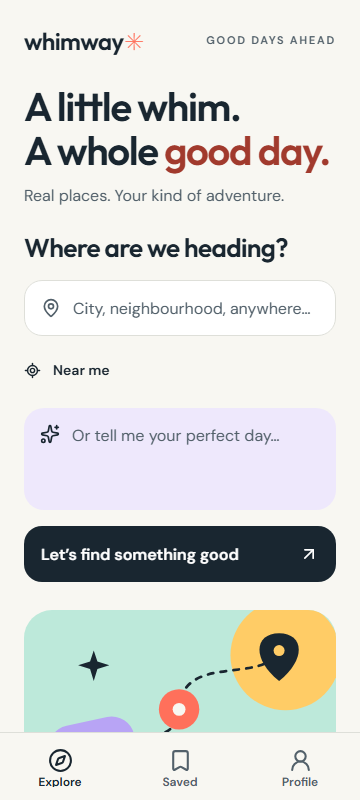
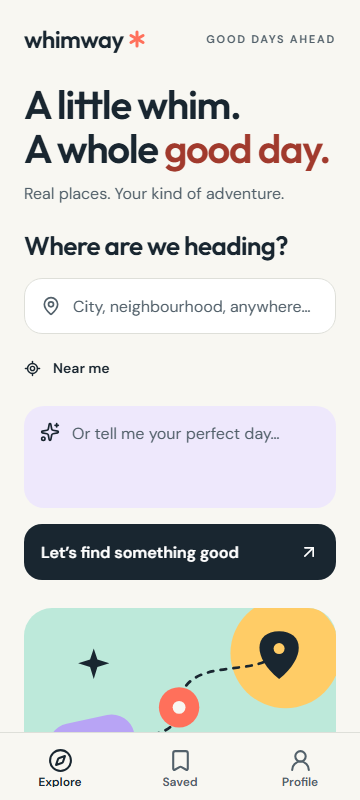
Record native launch evidence and validate database RLS in CI

diff --git a/docs/mobile-requirements.md b/docs/mobile-requirements.md
@@ -4,41 +4,41 @@ This maps the pasted original specification to repository code and observed evid
 
 ## Phase coverage
 
-| Original phase                            | Implementation/evidence                                                                                                                                                                                | Remaining work or gate                                                                                                                                             |
-| ----------------------------------------- | ------------------------------------------------------------------------------------------------------------------------------------------------------------------------------------------------------ | ------------------------------------------------------------------------------------------------------------------------------------------------------------------ |
-| 0: existing project and Git safety        | Hearthlane/Whimway baseline `cc9a129`; dedicated `codex/native-mobile-experience`; preserved Next backend/core                                                                                         | Repository milestones and draft PR tracked by the main task                                                                                                        |
-| 1: complete audit                         | `mobile-audit.md`, baseline portrait captures, 80 baseline tests, existing browser interaction suite                                                                                                   | Native/live behavior cannot be established from original web captures                                                                                              |
-| 2: native architecture/store metadata     | Expo 57 / RN 0.86.3, Router, native maps/location/reminders/haptics, independent lockfile, shared server contracts; icon/splash/deep links/EAS profiles/privacy setup                                  | Initial Android/iOS native compilation passed; final-source runtime flows pending; IDs, credentials and signed distribution remain separate gates                  |
-| 3–4: adaptive planning                    | `app/(tabs)/index.tsx`, `app/planner.tsx`, `src/core/planning.ts`: destination or prompt, known-answer suppression, Skip/Back, early generate, opt-in preferences                                      | Live OpenAI/Places need server credentials; hardware Back and native date/map/keyboard dialogs require OS checks                                                   |
-| 5: motion/design system                   | Shared Outfit/DM Sans/palette/components, Reanimated selection/reveal/question transitions/progress, haptics and reduced motion                                                                        | Real sheet gestures/focus/escape and planner motion are implemented; native frame-rate/battery and OS behavior remain unmeasured                                   |
-| 6: honest generation                      | `app/generating.tsx`, bounded/abortable `services/http.ts`: actual pending state, slow message, retry/cancel; no fabricated phases or percentages                                                      | Cancellation, timeout/offline and saved-lock failure-preservation browser checks passed; native OS checks remain separate                                          |
-| 7: result/edit/remix                      | `app/plan/[id].tsx`, retained planner/APIs: venue IDs, attributed photos/fallbacks, schedule/cost, lock/replace/add/remove/reorder/duration/budget/mode/remix/undo                                     | Personalized suitability/provider regressions and fixture edits pass; live photo/venue/route checks need Google                                                    |
-| 8: Day/map guidance                       | `app/day/[id].tsx`, `RouteMap.native.tsx`, location/progress/geometry services: current/next stop, numbered markers/area/routes, recenter/fit, independent mode, completion/skip, foreground lifecycle | Google SDK keys/device build for actual maps/location; official full turn-by-turn incompatible with current RN, explicitly unavailable                             |
-| 9: reminders                              | Post-plan opt-in, configurable lead/upcoming stops, destination-timezone instants, completed/skipped suppression and edit/delete cancellation                                                          | Real iOS/Android grant/deny/delivery/process/tap behavior must be exercised                                                                                        |
-| 10: real recommendation engine            | Retained Places/Routes/OpenAI adapters, structured IDs, geometry/boundary/hours/budget/duration/variety checks; provider/planner tests                                                                 | Companion/energy/cuisine/atmosphere suitability, Free hard budget and global currency/route guards tested; live key/billing validation pending                     |
-| 11: complete screen structure             | Explore, adaptive Planning, Generation, Plan, Day, Saved plans/favorites and Profile; only Explore/Saved/Profile are permanent tabs                                                                    | Browser/source checks cover layouts; native gestures and OS navigation remain distinct                                                                             |
-| 12: guest/account rules                   | Guest plans/preferences, opt-in reuse, SecureStore PKCE bearer sessions, explicit cloud preference conflict handling                                                                                   | Supabase migration/redirect/SMTP and two-account RLS/deletion/share tests need hosted credentials                                                                  |
-| 13–15: quality, journeys and second audit | Five portrait layouts, 200% browser text sample, actual RN Web fixture workflows, expanded Axe and reviewed captures                                                                                   | Re-audit source gaps repaired; 17 browser cases and expanded modal Axe pass; native fontScale/VoiceOver/TalkBack/permissions/performance still require OS evidence |
-| 16: release preparation                   | App configuration, EAS profiles, original assets, SDK/version checks, `release:check`, exact commands and provider/privacy/signing guidance                                                            | Privacy/terms, IDs and signing remain required; local diagnostics and initial native artifacts implemented; final native workflows pending                         |
-| 17: persistence through completion        | Durable checklist, automated tests, CI, major commits and explicit external blockers                                                                                                                   | Update this record from actual native build results; do not mark pending compile/device work complete                                                              |
+| Original phase                            | Implementation/evidence                                                                                                                                                                                | Remaining work or gate                                                                                                                                                              |
+| ----------------------------------------- | ------------------------------------------------------------------------------------------------------------------------------------------------------------------------------------------------------ | ----------------------------------------------------------------------------------------------------------------------------------------------------------------------------------- |
+| 0: existing project and Git safety        | Hearthlane/Whimway baseline `cc9a129`; dedicated `codex/native-mobile-experience`; preserved Next backend/core                                                                                         | Repository milestones and draft PR tracked by the main task                                                                                                                         |
+| 1: complete audit                         | `mobile-audit.md`, baseline portrait captures, 80 baseline tests, existing browser interaction suite                                                                                                   | Native/live behavior cannot be established from original web captures                                                                                                               |
+| 2: native architecture/store metadata     | Expo 57 / RN 0.86.3, Router, native maps/location/reminders/haptics, independent lockfile, shared server contracts; icon/splash/deep links/EAS profiles/privacy setup                                  | Initial Android/iOS compilation and initial iOS Explore install/launch verified; final-source runtime flows pending; IDs, credentials and signed distribution remain separate gates |
+| 3–4: adaptive planning                    | `app/(tabs)/index.tsx`, `app/planner.tsx`, `src/core/planning.ts`: destination or prompt, known-answer suppression, Skip/Back, early generate, opt-in preferences                                      | Live OpenAI/Places need server credentials; hardware Back and native date/map/keyboard dialogs require OS checks                                                                    |
+| 5: motion/design system                   | Shared Outfit/DM Sans/palette/components, Reanimated selection/reveal/question transitions/progress, haptics and reduced motion                                                                        | Real sheet gestures/focus/escape and planner motion are implemented; native frame-rate/battery and OS behavior remain unmeasured                                                    |
+| 6: honest generation                      | `app/generating.tsx`, bounded/abortable `services/http.ts`: actual pending state, slow message, retry/cancel; no fabricated phases or percentages                                                      | Cancellation, timeout/offline and saved-lock failure-preservation browser checks passed; native OS checks remain separate                                                           |
+| 7: result/edit/remix                      | `app/plan/[id].tsx`, retained planner/APIs: venue IDs, attributed photos/fallbacks, schedule/cost, lock/replace/add/remove/reorder/duration/budget/mode/remix/undo                                     | Personalized suitability/provider regressions and fixture edits pass; live photo/venue/route checks need Google                                                                     |
+| 8: Day/map guidance                       | `app/day/[id].tsx`, `RouteMap.native.tsx`, location/progress/geometry services: current/next stop, numbered markers/area/routes, recenter/fit, independent mode, completion/skip, foreground lifecycle | Google SDK keys/device build for actual maps/location; official full turn-by-turn incompatible with current RN, explicitly unavailable                                              |
+| 9: reminders                              | Post-plan opt-in, configurable lead/upcoming stops, destination-timezone instants, completed/skipped suppression and edit/delete cancellation                                                          | Real iOS/Android grant/deny/delivery/process/tap behavior must be exercised                                                                                                         |
+| 10: real recommendation engine            | Retained Places/Routes/OpenAI adapters, structured IDs, geometry/boundary/hours/budget/duration/variety checks; provider/planner tests                                                                 | Companion/energy/cuisine/atmosphere suitability, Free hard budget and global currency/route guards tested; live key/billing validation pending                                      |
+| 11: complete screen structure             | Explore, adaptive Planning, Generation, Plan, Day, Saved plans/favorites and Profile; only Explore/Saved/Profile are permanent tabs                                                                    | Browser/source checks cover layouts; native gestures and OS navigation remain distinct                                                                                              |
+| 12: guest/account rules                   | Guest plans/preferences, opt-in reuse, SecureStore PKCE bearer sessions, explicit cloud preference conflict handling                                                                                   | Supabase migration/redirect/SMTP and two-account RLS/deletion/share tests need hosted credentials                                                                                   |
+| 13–15: quality, journeys and second audit | Five portrait layouts, 200% browser text sample, actual RN Web fixture workflows, expanded Axe and reviewed captures                                                                                   | Re-audit source gaps repaired; 17 browser cases and expanded modal Axe pass; native fontScale/VoiceOver/TalkBack/permissions/performance still require OS evidence                  |
+| 16: release preparation                   | App configuration, EAS profiles, original assets, SDK/version checks, `release:check`, exact commands and provider/privacy/signing guidance                                                            | Privacy/terms, IDs and signing remain required; local diagnostics and initial native artifacts implemented; final native workflows pending                                          |
+| 17: persistence through completion        | Durable checklist, automated tests, CI, major commits and explicit external blockers                                                                                                                   | Update this record from actual native build results; do not mark pending compile/device work complete                                                                               |
 
 ## Definition-of-done mapping
 
-| Original item                                  | What proves it                                                                                                           | Current limit                                                                                                               |
-| ---------------------------------------------- | ------------------------------------------------------------------------------------------------------------------------ | --------------------------------------------------------------------------------------------------------------------------- |
-| 1: existing repository upgraded                | Audit, commits, retained API/core plus `apps/mobile`                                                                     | No unrelated replacement repository                                                                                         |
-| 2–3: cohesive identity/portrait-first          | Original assets/design tokens and five-size screenshot audit                                                             | Browser layout evidence; physical native review still required                                                              |
-| 4: anywhere supported by Places                | Actual autocomplete/geocoding/point adapters and native location/map selection                                           | Fixture examples do not prove global live-provider coverage                                                                 |
-| 5–7: short adaptive/intelligent prefill        | Guided and complete-intent browser tests plus structured parser/core tests                                               | Successful AI browser case uses explicitly mocked validated intent; live AI pending                                         |
-| 8: polished honest generation                  | Pending/error/cancel UI and abort/timeout tests                                                                          | No invented progress phases                                                                                                 |
-| 9: personalized real places                    | Provider-ID validation, deterministic planner and suitability rules                                                      | Synthetic test venues are labeled; live results need billed keys                                                            |
-| 10–12: cards/map/edit/recompute                | Browser edit workflows, route/schedule/cost response assertions and native map source                                    | Real native map rendering/attribution needs SDK keys and device testing                                                     |
-| 13–14: outing guidance/conditional navigation  | Foreground next-stop route preview, progress/mode services and UI                                                        | No spoken maneuvers or automatic arrival; full Navigation beta needs RN >=0.87                                              |
-| 15: opt-in day reminders                       | Native notification service plus timezone/cancellation tests and honest browser fallback                                 | OS dialogs/delivery not implied by service tests                                                                            |
-| 16: responsive animated tactile product        | Native animation/haptic/gesture code and reduced-motion browser checks                                                   | Native frame-rate, battery, keyboard and assistive checks remain measured device work                                       |
-| 17–18: saving/sharing/account/no fake controls | Local persistence and favorite hydration workflows, text Share, authenticated cloud APIs and explicit unavailable states | Live Supabase and native share sheets require real integration checks                                                       |
-| 19: tests/available native checks              | `mobile-checklist.md` records exact commands/counts and native build run evidence                                        | Initial Android/iOS compile verified; final-source emulator/simulator flows pending; actual runner evidence controls status |
-| 20–21: blockers/maintainable distribution prep | `mobile-release.md`, EAS/config/scripts, CI and this traceability                                                        | Signed store-ready builds, legal approval and submission remain external authorized steps                                   |
+| Original item                                  | What proves it                                                                                                           | Current limit                                                                                                                                                  |
+| ---------------------------------------------- | ------------------------------------------------------------------------------------------------------------------------ | -------------------------------------------------------------------------------------------------------------------------------------------------------------- |
+| 1: existing repository upgraded                | Audit, commits, retained API/core plus `apps/mobile`                                                                     | No unrelated replacement repository                                                                                                                            |
+| 2–3: cohesive identity/portrait-first          | Original assets/design tokens and five-size screenshot audit                                                             | Browser layout evidence; physical native review still required                                                                                                 |
+| 4: anywhere supported by Places                | Actual autocomplete/geocoding/point adapters and native location/map selection                                           | Fixture examples do not prove global live-provider coverage                                                                                                    |
+| 5–7: short adaptive/intelligent prefill        | Guided and complete-intent browser tests plus structured parser/core tests                                               | Successful AI browser case uses explicitly mocked validated intent; live AI pending                                                                            |
+| 8: polished honest generation                  | Pending/error/cancel UI and abort/timeout tests                                                                          | No invented progress phases                                                                                                                                    |
+| 9: personalized real places                    | Provider-ID validation, deterministic planner and suitability rules                                                      | Synthetic test venues are labeled; live results need billed keys                                                                                               |
+| 10–12: cards/map/edit/recompute                | Browser edit workflows, route/schedule/cost response assertions and native map source                                    | Real native map rendering/attribution needs SDK keys and device testing                                                                                        |
+| 13–14: outing guidance/conditional navigation  | Foreground next-stop route preview, progress/mode services and UI                                                        | No spoken maneuvers or automatic arrival; full Navigation beta needs RN >=0.87                                                                                 |
+| 15: opt-in day reminders                       | Native notification service plus timezone/cancellation tests and honest browser fallback                                 | OS dialogs/delivery not implied by service tests                                                                                                               |
+| 16: responsive animated tactile product        | Native animation/haptic/gesture code and reduced-motion browser checks                                                   | Native frame-rate, battery, keyboard and assistive checks remain measured device work                                                                          |
+| 17–18: saving/sharing/account/no fake controls | Local persistence and favorite hydration workflows, text Share, authenticated cloud APIs and explicit unavailable states | Live Supabase and native share sheets require real integration checks                                                                                          |
+| 19: tests/available native checks              | `mobile-checklist.md` records exact commands/counts and native build run evidence                                        | Initial Android/iOS compile plus old-source iOS Explore launch verified; final-source emulator/simulator flows pending; actual runner evidence controls status |
+| 20–21: blockers/maintainable distribution prep | `mobile-release.md`, EAS/config/scripts, CI and this traceability                                                        | Signed store-ready builds, legal approval and submission remain external authorized steps                                                                      |
 
 ## Verification still to distinguish
 
@@ -50,4 +50,4 @@ This maps the pasted original specification to repository code and observed evid
 | Live providers/accounts       | Billed/restricted Google/OpenAI staging calls, native map/photo attribution, Supabase ownership/RLS/share/deletion and email links |
 | Public distribution           | Confirmed identifiers/signing, approved privacy/terms/disclosures and store submission authorization                               |
 
-The main validation record remains [mobile-checklist.md](mobile-checklist.md). Initial native compilation is recorded by exact commit/run; final-source native runtime results are still pending. This record does not equate a browser pass or authored flow with an OS pass.
+The main validation record remains [mobile-checklist.md](mobile-checklist.md). Initial native compilation and the actual old-source iOS Explore install/launch are recorded by exact commit/run/artifact; final-source native runtime results are still pending. This record does not equate a browser pass or authored flow with an OS pass.

diff --git a/docs/mobile-checklist.md b/docs/mobile-checklist.md
@@ -25,38 +25,40 @@ Updated 13 October 2026. Work is on `codex/native-mobile-experience` in the orig
 | Motion/accessibility              | Implemented; native assistive checks open                  | Reanimated/Gesture Handler/haptics, reduced motion, labels/state, text scaling and at least 44/48-point controls; Axe scope below is browser-only                                 |
 | Visual audit                      | Browser review verified; device review open                | Baseline and actual RN Web preview captures; portrait widths 375/360/390/412/430 and 200% browser text sample; no unrelated venue photos                                          |
 | Android binary/device test        | Hosted initial compilation verified; final runtime pending | Real internal-test APK compiled on GitHub; final source and emulator flows remain separate checks. Store signing is not supplied                                                  |
-| iOS binary/device test            | Hosted initial compilation verified; runtime pending       | Release simulator app compiled on GitHub macOS/Xcode; install/launch and native journeys await runner evidence. Device/store signing is not supplied                              |
+| iOS binary/device test            | Hosted initial compilation verified; runtime pending       | Initial Release simulator app compiled, installed and launched on GitHub macOS/Xcode; final-source native journeys pending; device/store signing is not supplied                  |
 | Production/build validation       | Source/build-tool checks passed                            | Next production build, mobile typecheck, dependency alignment, Android prebuild and all-platform JavaScript export; native binary gate remains open                               |
 | Release documentation/CI          | Implemented                                                | `docs/mobile-release.md`, EAS profiles and `.github/workflows/mobile.yml`                                                                                                         |
 
 ## Evidence from this coding session
 
-| Check                                             | Result                                                           | Scope                                                                                                                                                                               |
-| ------------------------------------------------- | ---------------------------------------------------------------- | ----------------------------------------------------------------------------------------------------------------------------------------------------------------------------------- |
-| Baseline `npm test`                               | Passed, 80 tests / 5 files                                       | Existing deterministic planner/provider/API/usage logic                                                                                                                             |
-| Baseline Playwright                               | 13 / 14 initially; isolated remaining accessibility check passed | Axe initially sampled an opacity transition; settled reduced-motion check passed across six routes and phone/desktop itineraries                                                    |
-| Current `npm test`                                | Passed, 189 tests                                                | Planner/provider/API/security, personalization/currency, native service/recovery/config behavior and real decoder dependency resolution                                             |
-| Final retained-web Playwright                     | Passed, 16 / 16                                                  | Existing browser flows, settled Axe, sparse results and location-selection/date race regressions                                                                                    |
-| Final root/mobile typechecks, lint and Next build | Passed                                                           | Source checks and production backend bundle; not OS-native compilation                                                                                                              |
-| Native-screen RN Web journeys                     | Passed, 17 / 17 in 1.2 minutes                                   | Fixture APIs, five widths/200% text, motion, cancellation/offline recovery, prefs/exclusions, diagnostics, sheets, Free and locked-stop recovery; explicit intent/error mocks below |
-| `/api/status` fixture server                      | HTTP 200                                                         | `places/maps/ai/cloud=false`, `demo=true`; missing services explicit                                                                                                                |
-| Asset regeneration + metadata                     | Passed                                                           | Five PNGs; store icon 1024 × 1024 without alpha; original SVG sources and icon visual inspection                                                                                    |
-| Original web portrait capture                     | Passed                                                           | Six 390 × 844 Chromium captures, no horizontal overflow/uncaught exceptions; `docs/screenshots/baseline`                                                                            |
-| Decoder adapter regression                        | Passed, 3 tests                                                  | Actual query-string resolves provenance-pinned CommonJS decoder; Unicode, plus/space, malformed percent and long malformed UTF-8                                                    |
-| Expo Doctor                                       | Passed, 21 / 21                                                  | SDK dependency alignment and project configuration                                                                                                                                  |
-| Final Expo production all-platform export         | Passed with current frozen source                                | Android 8.1 MB / iOS 7.9 MB Hermes, web 5.7 MB, 58 assets; JavaScript compilation, not native installation/performance                                                              |
-| Android prebuild                                  | Passed                                                           | Native project/config generated; `expo run:android` cannot proceed without Android SDK/adb                                                                                          |
-| Dependency audit                                  | Root production 0; full root 5 high / mobile 20 high, 0 moderate | Open braces/Forge tooling advisories recorded in `docs/dependency-advisories.md`                                                                                                    |
-| Hosted initial native compilation                 | Android and iOS simulator compilation passed                     | Run/commit/artifact scope below; final source changes and runtime journeys are still pending                                                                                        |
-| Native device execution                           | Pending hosted emulator/simulator flows                          | Maestro smoke/reminder flows are authored; only actual successful runner execution establishes OS behavior                                                                          |
-| Live Google/OpenAI/Supabase                       | Not performed                                                    | Credentials absent; fixtures/mocked validated intent are not live integration evidence                                                                                              |
-| Store build/submission                            | Not performed                                                    | Internal compile-check APK is not a store-signed AAB/IPA; no signed device distribution or store submission                                                                         |
+| Check                                             | Result                                                             | Scope                                                                                                                                                                               |
+| ------------------------------------------------- | ------------------------------------------------------------------ | ----------------------------------------------------------------------------------------------------------------------------------------------------------------------------------- |
+| Baseline `npm test`                               | Passed, 80 tests / 5 files                                         | Existing deterministic planner/provider/API/usage logic                                                                                                                             |
+| Baseline Playwright                               | 13 / 14 initially; isolated remaining accessibility check passed   | Axe initially sampled an opacity transition; settled reduced-motion check passed across six routes and phone/desktop itineraries                                                    |
+| Current `npm test`                                | Passed, 189 tests                                                  | Planner/provider/API/security, personalization/currency, native service/recovery/config behavior and real decoder dependency resolution                                             |
+| Final retained-web Playwright                     | Passed, 16 / 16                                                    | Existing browser flows, settled Axe, sparse results and location-selection/date race regressions                                                                                    |
+| Final root/mobile typechecks, lint and Next build | Passed                                                             | Source checks and production backend bundle; not OS-native compilation                                                                                                              |
+| Native-screen RN Web journeys                     | Passed, 17 / 17 in 1.2 minutes                                     | Fixture APIs, five widths/200% text, motion, cancellation/offline recovery, prefs/exclusions, diagnostics, sheets, Free and locked-stop recovery; explicit intent/error mocks below |
+| `/api/status` fixture server                      | HTTP 200                                                           | `places/maps/ai/cloud=false`, `demo=true`; missing services explicit                                                                                                                |
+| Asset regeneration + metadata                     | Passed                                                             | Five PNGs; store icon 1024 × 1024 without alpha; original SVG sources and icon visual inspection                                                                                    |
+| Original web portrait capture                     | Passed                                                             | Six 390 × 844 Chromium captures, no horizontal overflow/uncaught exceptions; `docs/screenshots/baseline`                                                                            |
+| Decoder adapter regression                        | Passed, 3 tests                                                    | Actual query-string resolves provenance-pinned CommonJS decoder; Unicode, plus/space, malformed percent and long malformed UTF-8                                                    |
+| Expo Doctor                                       | Passed, 21 / 21                                                    | SDK dependency alignment and project configuration                                                                                                                                  |
+| Final Expo production all-platform export         | Passed with current frozen source                                  | Android 8.1 MB / iOS 7.9 MB Hermes, web 5.7 MB, 58 assets; JavaScript compilation, not native installation/performance                                                              |
+| Android prebuild                                  | Passed                                                             | Native project/config generated; `expo run:android` cannot proceed without Android SDK/adb                                                                                          |
+| Dependency audit                                  | Root production 0; full root 5 high / mobile 20 high, 0 moderate   | Open braces/Forge tooling advisories recorded in `docs/dependency-advisories.md`                                                                                                    |
+| Hosted initial native compilation                 | Android and iOS simulator compilation passed                       | Run/commit/artifact scope below; final source changes and runtime journeys are still pending                                                                                        |
+| Native device execution                           | Initial iOS Explore launch verified; final hosted journeys pending | Initial old-source native capture inspected; smoke/reminder/large-text flows await successful execution for final-source OS behavior                                                |
+| Live Google/OpenAI/Supabase                       | Not performed                                                      | Credentials absent; fixtures/mocked validated intent are not live integration evidence                                                                                              |
+| Store build/submission                            | Not performed                                                      | Internal compile-check APK is not a store-signed AAB/IPA; no signed device distribution or store submission                                                                         |
+
+After the initial native screenshot exposed the emoji brand mark, current source replaced it with a coral vector and wrapping header. A rebuilt RN Web export passed the three affected checks in 16.9 seconds: five portrait widths, the 200% text sample and automated screen accessibility. Fresh Explore captures show the corrected icon. The complete 17-case result above predates only this brand/header change; final native verification remains pending.
 
 ## Hosted native evidence
 
[1 lines of base64/hex data omitted]
 
-The same run's iOS Release simulator compilation succeeded. Installation/launch evidence is still pending at this update. These initial binaries predate the additional personalization, sheet/recovery/planner and permission-tightening changes. Final-source compilation and the separately authored `e2e-native` development-client flows must run before claiming those behaviors work natively. The CI-only build-check mode compiles the actual Google iOS adapter without a fake key and leaves `nativeMapsConfigured=false`; it cannot establish live map rendering. It is rejected by the production release gate.
+The same run's iOS Release simulator compilation, installation, launch and screenshot/upload steps succeeded. The `ios-native-simulator-app` artifact (ID `11862510795`, approximately 29.5 MB archive) contains the unsigned simulator app, device inventory, `launch.txt` and actual native capture. Launch evidence reports `com.example.whimway: 83217`; the reviewed 1206 × 2622 Explore screenshot is saved at `docs/screenshots/native-ios/explore-869a8fb.png`. The overall iOS job was cancelled during post-setup-node cleanup after those steps succeeded; it is not recorded as an entirely successful workflow. These initial binaries predate the additional personalization, sheet/recovery/planner and permission-tightening changes. Final-source compilation and the separately authored `e2e-native` development-client flows must run before claiming those behaviors work natively. The CI-only build-check mode compiles the actual Google iOS adapter without a fake key and leaves `nativeMapsConfigured=false`; it cannot establish live map rendering. It is rejected by the production release gate.
 
 ## Expanded source/browser QA
 

diff --git a/docs/screenshots/README.md b/docs/screenshots/README.md
@@ -1,6 +1,6 @@
-# Browser visual evidence
+# Mobile visual evidence
 
-Captured locally on 13 October 2026 with Playwright Chromium. These images are browser artifacts, not device or store screenshots. The source audit and outstanding device checks are in [mobile-audit.md](../mobile-audit.md) and [mobile-checklist.md](../mobile-checklist.md).
+Browser captures were created locally on 13 October 2026 with Playwright Chromium. Native simulator captures are separately identified below. These are development/QA evidence, not store screenshots. The source audit and outstanding device checks are in [mobile-audit.md](../mobile-audit.md) and [mobile-checklist.md](../mobile-checklist.md).
 
 `baseline/` contains the retained Next.js frontend at 390 × 844, with explicit synthetic development fixtures where needed. `observations.json` records original page height and horizontal overflow measurements. Reproduce with the fixture backend running and `node scripts/capture-web-audit.mjs`.
 
@@ -23,3 +23,9 @@ Captured locally on 13 October 2026 with Playwright Chromium. These images are b
 | Network retry and explicit locked-stop recovery        | `saved-reopen-network-error-390.png`, `saved-lock-conflict-390.png`                           |
 
 RN Web uses an internal scroll view, so these captures show the viewport or selected scroll position rather than measuring the entire native screen's content height. Enlarged browser text is a layout sample, not an Android/iOS fontScale or VoiceOver/TalkBack test. Placeholder stop photographs are explicitly labeled synthetic; map fallback lists are not live maps. Real device checks must cover native safe areas, keyboards, maps/attribution, OS location and notification dialogs, hardware back, gestures, process recovery and performance.
+
+## Initial actual iOS simulator capture
+
+`native-ios/explore-869a8fb.png` is a 1206 × 2622 screenshot from the actual installed iOS Release simulator app in [native run 38489794771](https://github.com/Hearthlane/Whimway/actions/runs/38489794771), commit `869a8fb3dc033bd6180c292aad89d5e458c98353`. The `ios-native-simulator-app` artifact (ID `11862510795`) includes this image, the unsigned `.app` archive and `launch.txt` showing `com.example.whimway: 83217`. Compile, install, launch and upload succeeded before the overall job was cancelled during post-setup-node cleanup.
+
+This capture proves the initial native Explore launch, including its actual safe area and persistent tabs. It exposed Apple rendering the text asterisk as a green emoji badge; current source replaces that glyph with a coral vector icon and permits header wrapping. The screenshot intentionally preserves the observed older source. It does not prove the subsequent brand fix, complete native journeys, live providers, signed device distribution or final-source runtime behavior.

diff --git a/docs/mobile-audit.md b/docs/mobile-audit.md
@@ -77,3 +77,5 @@ Diagnostics are bounded, local and allowlisted. They omit prompt/plan text, plac
 The recommendation engine now applies companion/energy/cuisine/atmosphere suitability while keeping AI selections inside the actual validated candidate IDs and independent area/hour/budget rules. Destination currency uses pinned CLDR territory data with no silent USD fallback. Invalid route geometry/shape responses are rejected rather than rendered as fabricated paths. Fixture tests establish these contracts; billed live-provider suitability, geometry and prices remain unverified.
 
 Hosted native compilation is available even though this Windows host lacks Android/iOS toolchains. Initial Android APK and iOS simulator Release compilation succeeded in [run 38489794771](https://github.com/Hearthlane/Whimway/actions/runs/38489794771), for commit `869a8fb3dc033bd6180c292aad89d5e458c98353`. Final-source native compilation, installation and OS journeys are tracked separately in [mobile-checklist.md](mobile-checklist.md); the initial binaries do not prove later source changes or live SDK behavior.
+
+The initial iOS simulator app also installed, launched and produced the actual Explore screenshot in `docs/screenshots/native-ios/explore-869a8fb.png`. Those steps and artifact upload succeeded before workflow cleanup cancellation. Review found that the text asterisk appeared as Apple's green emoji badge; current source uses a coral Lucide vector and a wrapping header instead. That native observation is distinct from the focused browser regression of the fix and from the pending final-source native flows.
